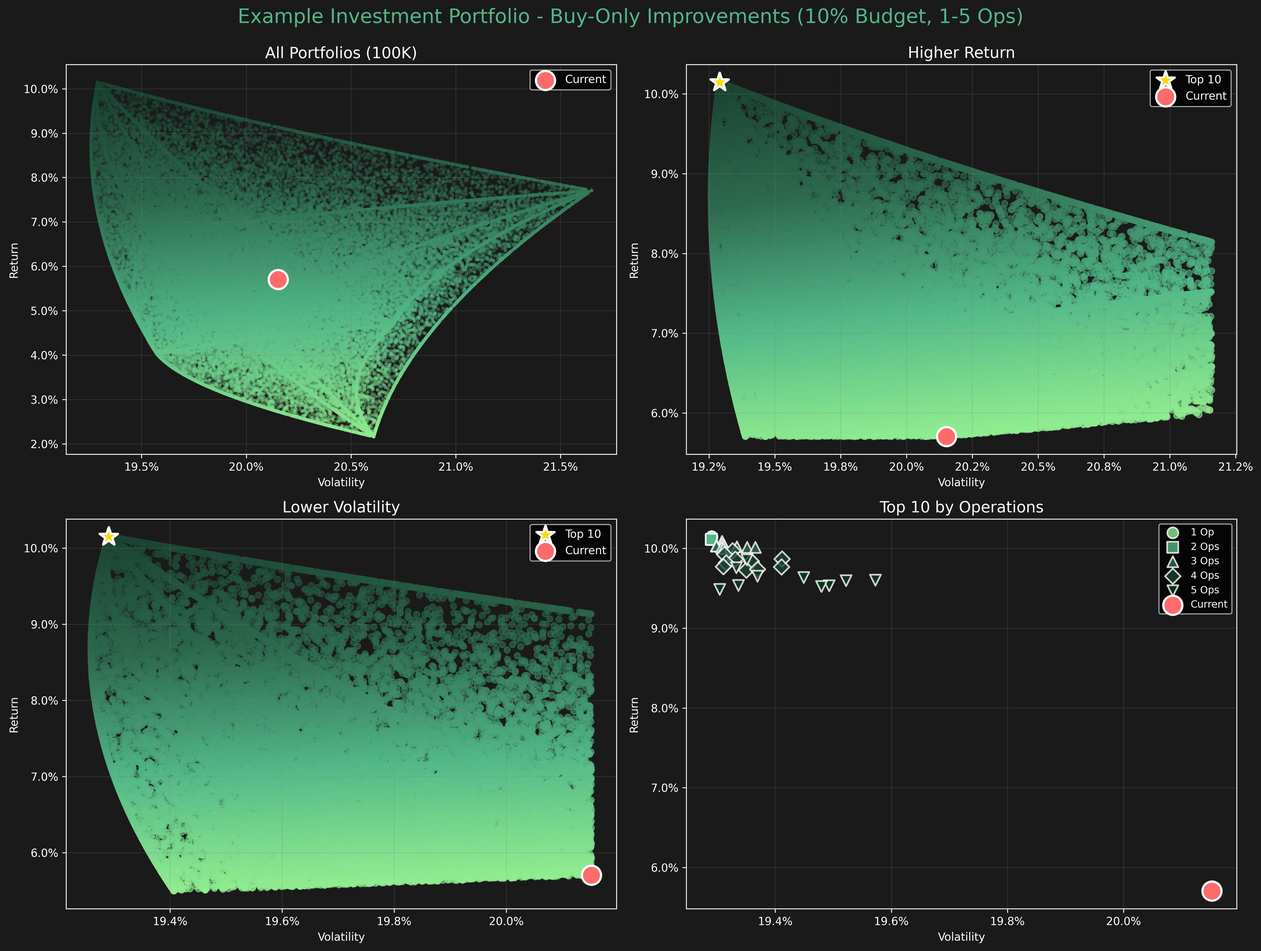
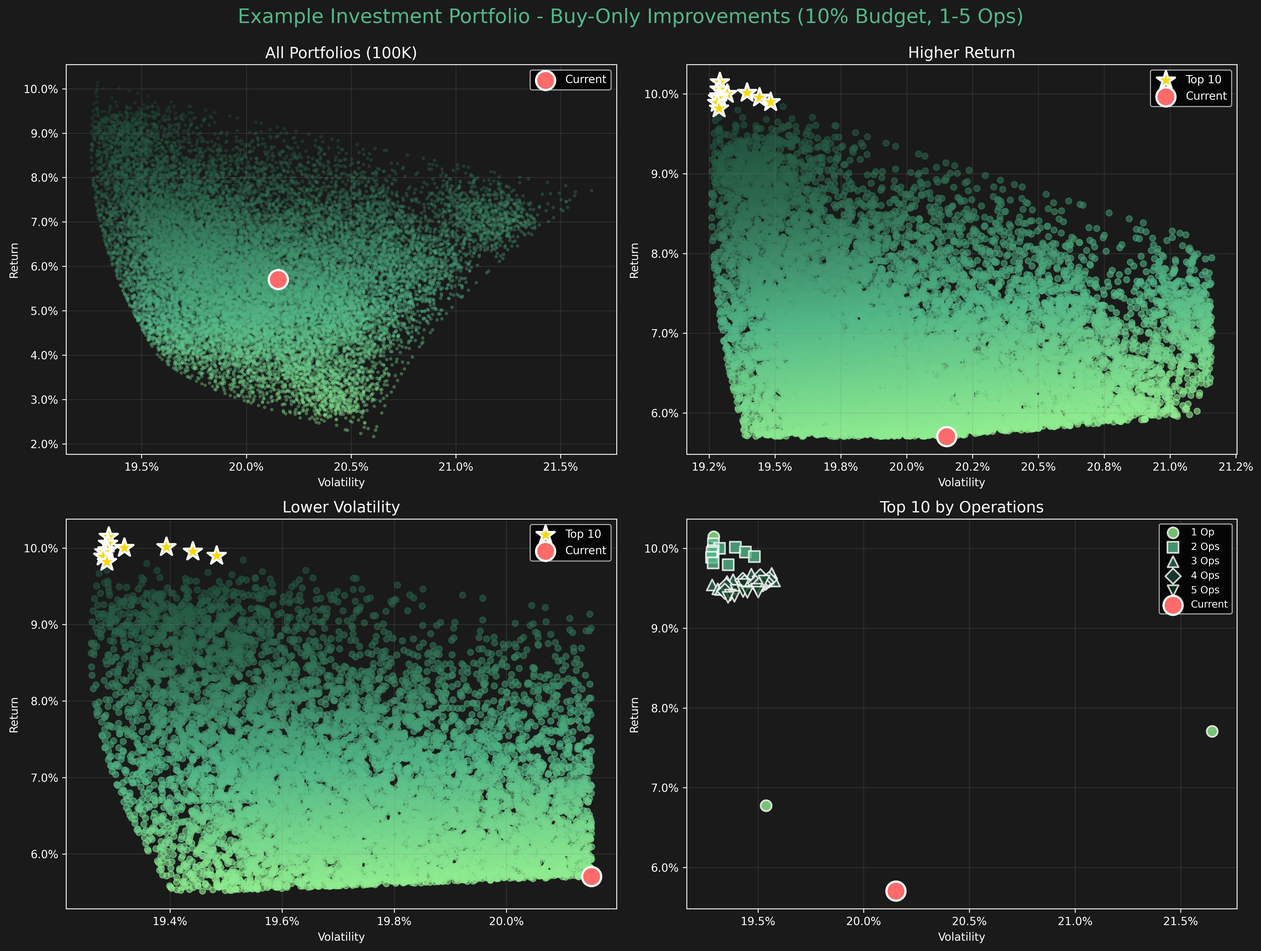
removing duplicate portfolios and adding tolerance thresholds

diff --git a/out/portfolio_report.html b/out/portfolio_report.html
@@ -58,7 +58,7 @@ h1 {font-size:2.5em;font-weight:300;color:#52B788}
 <div class="modal" id="modal" onclick="closeModal()"><span class="close-modal">×</span><img class="modal-content" id="modal-img"></div>
 
         <script>
-            const portfoliosData = {"1_operations": [{"returns": 0.1014749313048474, "volatility": 0.1929073471334451, "sharpe_ratio": 0.5260293753075738, "trades": "Buy JD 10.1%", "num_operations": 1, "return_improvement": 77.88341013234131, "volatility_change": -4.273996866799369, "sharpe_improvement": 85.82559002784281}, {"returns": 0.1014749313048474, "volatility": 0.1929073471334451, "sharpe_ratio": 0.5260293753075738, "trades": "Buy JD 10.1%", "num_operations": 1, "return_improvement": 77.88341013234131, "volatility_change": -4.273996866799369, "sharpe_improvement": 85.82559002784281}, {"returns": 0.1014749313048474, "volatility": 0.1929073471334451, "sharpe_ratio": 0.5260293753075738, "trades": "Buy JD 10.1%", "num_operations": 1, "return_improvement": 77.88341013234131, "volatility_change": -4.273996866799369, "sharpe_improvement": 85.82559002784281}, {"returns": 0.1014749313048474, "volatility": 0.1929073471334451, "sharpe_ratio": 0.5260293753075738, "trades": "Buy JD 10.1%", "num_operations": 1, "return_improvement": 77.88341013234131, "volatility_change": -4.273996866799369, "sharpe_improvement": 85.82559002784281}, {"returns": 0.1014749313048474, "volatility": 0.1929073471334451, "sharpe_ratio": 0.5260293753075738, "trades": "Buy JD 10.1%", "num_operations": 1, "return_improvement": 77.88341013234131, "volatility_change": -4.273996866799369, "sharpe_improvement": 85.82559002784281}, {"returns": 0.1014749313048474, "volatility": 0.1929073471334451, "sharpe_ratio": 0.5260293753075738, "trades": "Buy JD 10.1%", "num_operations": 1, "return_improvement": 77.88341013234131, "volatility_change": -4.273996866799369, "sharpe_improvement": 85.82559002784281}, {"returns": 0.1014749313048474, "volatility": 0.1929073471334451, "sharpe_ratio": 0.5260293753075738, "trades": "Buy JD 10.1%", "num_operations": 1, "return_improvement": 77.88341013234131, "volatility_change": -4.273996866799369, "sharpe_improvement": 85.82559002784281}, {"returns": 0.1014749313048474, "volatility": 0.1929073471334451, "sharpe_ratio": 0.5260293753075738, "trades": "Buy JD 10.1%", "num_operations": 1, "return_improvement": 77.88341013234131, "volatility_change": -4.273996866799369, "sharpe_improvement": 85.82559002784281}, {"returns": 0.1014749313048474, "volatility": 0.1929073471334451, "sharpe_ratio": 0.5260293753075738, "trades": "Buy JD 10.1%", "num_operations": 1, "return_improvement": 77.88341013234131, "volatility_change": -4.273996866799369, "sharpe_improvement": 85.82559002784281}, {"returns": 0.1014749313048474, "volatility": 0.1929073471334451, "sharpe_ratio": 0.5260293753075738, "trades": "Buy JD 10.1%", "num_operations": 1, "return_improvement": 77.88341013234131, "volatility_change": -4.273996866799369, "sharpe_improvement": 85.82559002784281}], "2_operations": [{"returns": 0.1011409190325419, "volatility": 0.1929013183338959, "sharpe_ratio": 0.5243142965849279, "trades": "Buy JD 10.0%; Buy RHHBY 0.1%", "num_operations": 2, "return_improvement": 77.29789367758987, "volatility_change": -4.276988525194507, "sharpe_improvement": 85.21971984161316}, {"returns": 0.1011409087796223, "volatility": 0.1929013181582674, "sharpe_ratio": 0.5243142439111819, "trades": "Buy JD 10.0%; Buy RHHBY 0.1%", "num_operations": 2, "return_improvement": 77.29787570443847, "volatility_change": -4.276988612346298, "sharpe_improvement": 85.21970123404029}, {"returns": 0.1011405496380102, "volatility": 0.1929013120066743, "sharpe_ratio": 0.5243123988421124, "trades": "Buy JD 10.0%; Buy RHHBY 0.1%", "num_operations": 2, "return_improvement": 77.2972461367821, "volatility_change": -4.276991664938274, "sharpe_improvement": 85.21904944335223}, {"returns": 0.1011401531149601, "volatility": 0.1929013052156148, "sharpe_ratio": 0.5243103617257079, "trades": "Buy JD 10.0%; Buy RHHBY 0.1%", "num_operations": 2, "return_improvement": 77.29655104025507, "volatility_change": -4.276995034851288, "sharpe_improvement": 85.21832980985722}, {"returns": 0.1011399840640322, "volatility": 0.1929013023206243, "sharpe_ratio": 0.524309493234659, "trades": "Buy JD 10.0%; Buy RHHBY 0.1%", "num_operations": 2, "return_improvement": 77.29625469755096, "volatility_change": -4.276996471426287, "sharpe_improvement": 85.21802300596154}, {"returns": 0.1011398310434004, "volatility": 0.1929012997002877, "sharpe_ratio": 0.5243087070980974, "trades": "Buy RHHBY 0.1%; Buy JD 10.0%", "num_operations": 2, "return_improvement": 77.29598645561708, "volatility_change": -4.27699777171036, "sharpe_improvement": 85.21774529468293}, {"returns": 0.1011397187655869, "volatility": 0.1929012977777161, "sharpe_ratio": 0.5243081302756821, "trades": "Buy RHHBY 0.1%; Buy JD 10.0%", "num_operations": 2, "return_improvement": 77.2957896349828, "volatility_change": -4.276998725743941, "sharpe_improvement": 85.21754152589986}, {"returns": 0.1011396249323013, "volatility": 0.1929012961710299, "sharpe_ratio": 0.5243076482110779, "trades": "Buy RHHBY 0.1%; Buy JD 10.0%", "num_operations": 2, "return_improvement": 77.295625147216, "volatility_change": -4.27699952302645, "sharpe_improvement": 85.21737123134272}, {"returns": 0.1011393486565629, "volatility": 0.1929012914407041, "sharpe_ratio": 0.5243062288551456, "trades": "Buy RHHBY 0.1%; Buy JD 10.0%", "num_operations": 2, "return_improvement": 77.29514084168515, "volatility_change": -4.277001870345959, "sharpe_improvement": 85.216869828444}, {"returns": 0.1011391983584124, "volatility": 0.1929012888675125, "sharpe_ratio": 0.5243054567036946, "trades": "Buy RHHBY 0.1%; Buy JD 10.0%", "num_operations": 2, "return_improvement": 77.29487737220354, "volatility_change": -4.277003147235377, "sharpe_improvement": 85.2165970575576}], "3_operations": [{"returns": 0.1008992075889424, "volatility": 0.1930848378022942, "sharpe_ratio": 0.5225641160506679, "trades": "Buy NFLX 0.1%; Buy JD 9.9%; Buy RHHBY 0.1%", "num_operations": 3, "return_improvement": 76.87417862498927, "volatility_change": -4.185921049186219, "sharpe_improvement": 84.60144955919034}, {"returns": 0.1005931222200574, "volatility": 0.1930816215863076, "sharpe_ratio": 0.5209875564210145, "trades": "Buy RHHBY 0.2%; Buy JD 9.8%; Buy NFLX 0.1%", "num_operations": 3, "return_improvement": 76.33761744176148, "volatility_change": -4.187517025213994, "sharpe_improvement": 84.04451274701493}, {"returns": 0.1004119733387429, "volatility": 0.1931138604849143, "sharpe_ratio": 0.5199625396468468, "trades": "Buy JD 9.8%; Buy NFLX 0.1%; Buy UNH 0.1%", "num_operations": 3, "return_improvement": 76.02006728099235, "volatility_change": -4.1715191850337865, "sharpe_improvement": 83.68241443884199}, {"returns": 0.1003274556605456, "volatility": 0.1929850770739254, "sharpe_ratio": 0.5198715733969103, "trades": "Buy JD 9.9%; Buy REGN 0.1%; Buy UNH 0.1%", "num_operations": 3, "return_improvement": 75.8719095772041, "volatility_change": -4.235425103533055, "sharpe_improvement": 83.65027962306826}, {"returns": 0.1003221285304544, "volatility": 0.1929854444126867, "sharpe_ratio": 0.5198429800535739, "trades": "Buy UNH 0.1%; Buy REGN 0.1%; Buy JD 9.9%", "num_operations": 3, "return_improvement": 75.86257123073113, "volatility_change": -4.235242819799777, "sharpe_improvement": 83.64017871398262}, {"returns": 0.1001063218044978, "volatility": 0.1930748484642571, "sharpe_ratio": 0.5184845286724645, "trades": "Buy JD 9.6%; Buy RHHBY 0.3%; Buy NFLX 0.1%", "num_operations": 3, "return_improvement": 75.48426660072042, "volatility_change": -4.190878037183028, "sharpe_improvement": 83.16029100947719}, {"returns": 0.1002140980971061, "volatility": 0.1933370609397187, "sharpe_ratio": 0.5183387893144414, "trades": "Buy RHHBY 0.2%; Buy JD 9.6%; Buy NFLX 0.2%", "num_operations": 3, "return_improvement": 75.67319616405258, "volatility_change": -4.060760897423519, "sharpe_improvement": 83.10880699838165}, {"returns": 0.1000313855586777, "volatility": 0.1931073723841848, "sharpe_ratio": 0.5180091486080941, "trades": "Buy JD 9.9%; Buy REGN 0.1%; Buy LULU 0.1%", "num_operations": 3, "return_improvement": 75.35290494540723, "volatility_change": -4.174738761478049, "sharpe_improvement": 82.99235783863962}, {"returns": 0.1001354931524768, "volatility": 0.193517408661848, "sharpe_ratio": 0.5174495351343475, "trades": "Buy JD 9.6%; Buy RHHBY 0.2%; Buy NFLX 0.3%", "num_operations": 3, "return_improvement": 75.53540335725656, "volatility_change": -3.97126733032948, "sharpe_improvement": 82.79466830108161}, {"returns": 0.1001541619866895, "volatility": 0.1936552156170054, "sharpe_ratio": 0.5171777153927306, "trades": "Buy JD 9.6%; Buy RHHBY 0.1%; Buy NFLX 0.4%", "num_operations": 3, "return_improvement": 75.56812942910743, "volatility_change": -3.9028836776734463, "sharpe_improvement": 82.69864502512358}], "4_operations": [{"returns": 0.0997112798818016, "volatility": 0.1932643739763253, "sharpe_ratio": 0.5159320252889243, "trades": "Buy NFLX 0.1%; Buy UNH 0.1%; Buy REGN 0.2%; Buy JD 9.7%", "num_operations": 4, "return_improvement": 74.79176645855875, "volatility_change": -4.096830194881262, "sharpe_improvement": 82.2585914665247}, {"returns": 0.0992447742322387, "volatility": 0.1931258198496722, "sharpe_ratio": 0.5138866170742482, "trades": "Buy LULU 0.1%; Buy JD 9.7%; Buy REGN 0.2%; Buy UNH 0.1%", "num_operations": 4, "return_improvement": 73.97399191342558, "volatility_change": -4.165584614861643, "sharpe_improvement": 81.53602879952963}, {"returns": 0.0986546881961536, "volatility": 0.1933122111247582, "sharpe_ratio": 0.5103386259054513, "trades": "Buy LULU 0.1%; Buy RHHBY 0.1%; Buy REGN 0.3%; Buy JD 9.6%", "num_operations": 4, "return_improvement": 72.93958356231313, "volatility_change": -4.073092068320386, "sharpe_improvement": 80.2826623844511}, {"returns": 0.0982034771744327, "volatility": 0.1931563483574235, "sharpe_ratio": 0.508414442546374, "trades": "Buy NFLX 0.2%; Buy RHHBY 0.6%; Buy JD 9.2%; Buy UNH 0.1%", "num_operations": 4, "return_improvement": 72.1486201765692, "volatility_change": -4.150435518302686, "sharpe_improvement": 79.60292371431842}, {"returns": 0.0986836890606138, "volatility": 0.1941185041853873, "sharpe_ratio": 0.5083682747028012, "trades": "Buy NFLX 0.7%; Buy UNH 0.1%; Buy RHHBY 0.1%; Buy JD 9.2%", "num_operations": 4, "return_improvement": 72.99042146484365, "volatility_change": -3.672986975409337, "sharpe_improvement": 79.58661442214779}, {"returns": 0.0984037196430092, "volatility": 0.1935893072905851, "sharpe_ratio": 0.5083117503762822, "trades": "Buy LULU 0.1%; Buy UNH 0.2%; Buy JD 9.4%; Buy NFLX 0.4%", "num_operations": 4, "return_improvement": 72.49964099230851, "volatility_change": -3.935589226503854, "sharpe_improvement": 79.56664658989472}, {"returns": 0.0977250268663288, "volatility": 0.1931038507581967, "sharpe_ratio": 0.5060749771826117, "trades": "Buy REGN 0.1%; Buy RHHBY 0.7%; Buy JD 9.2%; Buy LULU 0.1%", "num_operations": 4, "return_improvement": 71.3099068974372, "volatility_change": -4.1764862904622255, "sharpe_improvement": 78.77648216565655}, {"returns": 0.0976845506913736, "volatility": 0.1941087974157256, "sharpe_ratio": 0.5032463854905106, "trades": "Buy LULU 0.1%; Buy NFLX 0.4%; Buy REGN 0.4%; Buy JD 9.2%", "num_operations": 4, "return_improvement": 71.23895301811395, "volatility_change": -3.677803745101372, "sharpe_improvement": 77.7772514291122}, {"returns": 0.0973085898660237, "volatility": 0.1935032243734931, "sharpe_ratio": 0.5028783896551621, "trades": "Buy JD 9.2%; Buy UNH 0.5%; Buy NFLX 0.3%; Buy REGN 0.1%", "num_operations": 4, "return_improvement": 70.57990163636417, "volatility_change": -3.9783059696124696, "sharpe_improvement": 77.64725290347579}, {"returns": 0.0973895954624856, "volatility": 0.1936954658115883, "sharpe_ratio": 0.502797497372595, "trades": "Buy REGN 0.6%; Buy JD 9.3%; Buy UNH 0.1%; Buy NFLX 0.1%", "num_operations": 4, "return_improvement": 70.72190273509038, "volatility_change": -3.882910409106924, "sharpe_improvement": 77.61867682608862}], "5_operations": [{"returns": 0.0985800136890445, "volatility": 0.1935126107375805, "sharpe_ratio": 0.5094242350061998, "trades": "Buy UNH 0.1%; Buy JD 9.5%; Buy REGN 0.2%; Buy NFLX 0.2%; Buy LULU 0.1%", "num_operations": 5, "return_improvement": 72.80868072942901, "volatility_change": -3.9736481940979846, "sharpe_improvement": 79.95964386809895}, {"returns": 0.0975829815681982, "volatility": 0.1933284122523339, "sharpe_ratio": 0.5047524077362827, "trades": "Buy JD 9.2%; Buy LULU 0.1%; Buy RHHBY 0.4%; Buy NFLX 0.2%; Buy UNH 0.2%", "num_operations": 5, "return_improvement": 71.06090449162295, "volatility_change": -4.065052617194677, "sharpe_improvement": 78.30927014432564}, {"returns": 0.0965388111903672, "volatility": 0.1936951783546163, "sharpe_ratio": 0.4984058561004776, "trades": "Buy JD 9.3%; Buy RHHBY 0.1%; Buy REGN 0.1%; Buy NFLX 0.2%; Buy LULU 0.5%", "num_operations": 5, "return_improvement": 69.230495885484, "volatility_change": -3.883053053269583, "sharpe_improvement": 76.0672818491357}, {"returns": 0.0963607757666933, "volatility": 0.1944888481538721, "sharpe_ratio": 0.4954565605245211, "trades": "Buy JD 8.9%; Buy REGN 0.5%; Buy RHHBY 0.1%; Buy NFLX 0.5%; Buy LULU 0.1%", "num_operations": 5, "return_improvement": 68.91840355016302, "volatility_change": -3.489211974537956, "sharpe_improvement": 75.02541115465563}, {"returns": 0.0953770498053907, "volatility": 0.1933658910581593, "sharpe_ratio": 0.4932465042487963, "trades": "Buy LULU 0.2%; Buy JD 8.6%; Buy UNH 0.1%; Buy NFLX 0.2%; Buy RHHBY 1.0%", "num_operations": 5, "return_improvement": 67.19395272884108, "volatility_change": -4.046454588984829, "sharpe_improvement": 74.24468477185397}, {"returns": 0.0959782185899611, "volatility": 0.1952189154548665, "sharpe_ratio": 0.491644051839591, "trades": "Buy LULU 0.1%; Buy NFLX 1.1%; Buy JD 8.4%; Buy RHHBY 0.3%; Buy REGN 0.2%", "num_operations": 5, "return_improvement": 68.24778890383924, "volatility_change": -3.126932228427057, "sharpe_improvement": 73.6786010540806}, {"returns": 0.0948816916126562, "volatility": 0.1930408698364268, "sharpe_ratio": 0.4915108997025043, "trades": "Buy REGN 0.1%; Buy RHHBY 1.1%; Buy JD 8.5%; Buy LULU 0.1%; Buy UNH 0.2%", "num_operations": 5, "return_improvement": 66.32560028526176, "volatility_change": -4.207739179500721, "sharpe_improvement": 73.63156361549053}, {"returns": 0.0960431108853767, "volatility": 0.1957258041748315, "sharpe_ratio": 0.4907023439770185, "trades": "Buy UNH 0.1%; Buy JD 8.2%; Buy REGN 0.1%; Buy RHHBY 0.2%; Buy NFLX 1.4%", "num_operations": 5, "return_improvement": 68.36154372634972, "volatility_change": -2.875399915549469, "sharpe_improvement": 73.34593252374603}, {"returns": 0.0953284045901598, "volatility": 0.1949263655380996, "sharpe_ratio": 0.4890482840892413, "trades": "Buy REGN 0.2%; Buy LULU 0.1%; Buy NFLX 0.9%; Buy UNH 0.3%; Buy JD 8.5%", "num_operations": 5, "return_improvement": 67.10867869454889, "volatility_change": -3.272103652248823, "sharpe_improvement": 72.76161790365873}, {"returns": 0.0952260297578302, "volatility": 0.1947968154834463, "sharpe_ratio": 0.4888479799913486, "trades": "Buy RHHBY 0.5%; Buy REGN 0.3%; Buy NFLX 0.8%; Buy JD 8.3%; Buy LULU 0.1%", "num_operations": 5, "return_improvement": 66.92921777693748, "volatility_change": -3.336390000705361, "sharpe_improvement": 72.6908583055771}]};
+            const portfoliosData = {"1_operations": [{"returns": 0.1014749285931443, "volatility": 0.1929073491983816, "sharpe_ratio": 0.5260293556197788, "trades": "Buy JD 10.1%", "num_operations": 1, "return_improvement": 77.88340537878304, "volatility_change": -4.273995842120343, "sharpe_improvement": 85.82558307291542, "signature": "JD:10.0"}, {"returns": 0.0770666416787214, "volatility": 0.2164825662362964, "sharpe_ratio": 0.3559946790107855, "trades": "Buy NFLX 10.1%", "num_operations": 1, "return_improvement": 35.096194232193874, "volatility_change": 7.424684034889174, "sharpe_improvement": 25.75898681565372, "signature": "NFLX:10.0"}, {"returns": 0.0677492312386889, "volatility": 0.1953854014935572, "sharpe_ratio": 0.3467466388010722, "trades": "Buy RHHBY 10.1%", "num_operations": 1, "return_improvement": 18.7629706333868, "volatility_change": -3.0443172150635727, "sharpe_improvement": 22.492016168688693, "signature": "RHHBY:10.0"}], "2_operations": [{"returns": 0.1005829301372293, "volatility": 0.1928926199580427, "sharpe_ratio": 0.521445196602689, "trades": "Buy RHHBY 0.3%; Buy JD 9.8%", "num_operations": 2, "return_improvement": 76.31975093595065, "volatility_change": -4.281304901768826, "sharpe_improvement": 84.20617911161744, "signature": "JD:10.0|RHHBY:0.5"}, {"returns": 0.1000297740118866, "volatility": 0.1931836037264368, "sharpe_ratio": 0.5177963972218712, "trades": "Buy JD 9.8%; Buy REGN 0.3%", "num_operations": 2, "return_improvement": 75.35007993793884, "volatility_change": -4.136910644427554, "sharpe_improvement": 82.91720110076544, "signature": "JD:10.0|REGN:0.5"}, {"returns": 0.0997259499209221, "volatility": 0.1928825979524185, "sharpe_ratio": 0.5170292757334344, "trades": "Buy RHHBY 0.5%; Buy JD 9.6%", "num_operations": 2, "return_improvement": 74.81748272711874, "volatility_change": -4.286278100333, "sharpe_improvement": 82.64620710327534, "signature": "JD:9.5|RHHBY:0.5"}, {"returns": 0.1001355396434229, "volatility": 0.1939360619522001, "sharpe_ratio": 0.5163327471716094, "trades": "Buy JD 9.5%; Buy NFLX 0.6%", "num_operations": 2, "return_improvement": 75.53548485490252, "volatility_change": -3.763519897276859, "sharpe_improvement": 82.40015082382006, "signature": "JD:9.5|NFLX:0.5"}, {"returns": 0.0994873095399822, "volatility": 0.1928279348536531, "sharpe_ratio": 0.5159382618264736, "trades": "Buy UNH 0.3%; Buy JD 9.8%", "num_operations": 2, "return_improvement": 74.39915118246027, "volatility_change": -4.313403453729051, "sharpe_improvement": 82.26079459114897, "signature": "JD:10.0|UNH:0.5"}, {"returns": 0.0988867395140985, "volatility": 0.1928062061117535, "sharpe_ratio": 0.5128815171892455, "trades": "Buy UNH 0.4%; Buy JD 9.7%", "num_operations": 2, "return_improvement": 73.34636461878642, "volatility_change": -4.324185861170068, "sharpe_improvement": 81.18096634877136, "signature": "JD:9.5|UNH:0.5"}, {"returns": 0.0995402377369891, "volatility": 0.1944041571077225, "sharpe_ratio": 0.5120273106188376, "trades": "Buy JD 9.3%; Buy NFLX 0.8%", "num_operations": 2, "return_improvement": 74.49193319329464, "volatility_change": -3.5312380324851462, "sharpe_improvement": 80.87920860024468, "signature": "JD:9.5|NFLX:1.0"}, {"returns": 0.0982016828587427, "volatility": 0.1928747731045171, "sharpe_ratio": 0.5091473668540787, "trades": "Buy JD 9.1%; Buy RHHBY 1.0%", "num_operations": 2, "return_improvement": 72.14547477908351, "volatility_change": -4.290161007987167, "sharpe_improvement": 79.8618371862996, "signature": "JD:9.0|RHHBY:1.0"}, {"returns": 0.0990035018435104, "volatility": 0.1948318815471499, "sharpe_ratio": 0.508148363898807, "trades": "Buy NFLX 1.0%; Buy JD 9.1%", "num_operations": 2, "return_improvement": 73.55104651473553, "volatility_change": -3.318989242393975, "sharpe_improvement": 79.5089285421875, "signature": "JD:9.0|NFLX:1.0"}, {"returns": 0.0979686961602559, "volatility": 0.1935871828905473, "sharpe_ratio": 0.5060701576283935, "trades": "Buy JD 9.4%; Buy REGN 0.6%", "num_operations": 2, "return_improvement": 71.73705402028739, "volatility_change": -3.936643413022377, "sharpe_improvement": 78.7747796057838, "signature": "JD:9.5|REGN:0.5"}], "3_operations": [{"returns": 0.0968097264139556, "volatility": 0.1946774717711132, "sharpe_ratio": 0.4972826364201866, "trades": "Buy RHHBY 0.7%; Buy NFLX 0.9%; Buy JD 8.4%", "num_operations": 3, "return_improvement": 69.70540454724892, "volatility_change": -3.395611677590605, "sharpe_improvement": 75.67049229779379, "signature": "JD:8.5|NFLX:1.0|RHHBY:0.5"}, {"returns": 0.0961207857467259, "volatility": 0.1938207731915348, "sharpe_ratio": 0.4959261288868082, "trades": "Buy RHHBY 1.2%; Buy JD 8.3%; Buy NFLX 0.5%", "num_operations": 3, "return_improvement": 68.49770611681087, "volatility_change": -3.820729394108684, "sharpe_improvement": 75.19129127861142, "signature": "JD:8.5|NFLX:0.5|RHHBY:1.0"}, {"returns": 0.0958682355356162, "volatility": 0.1935317634804746, "sharpe_ratio": 0.495361762904043, "trades": "Buy RHHBY 1.4%; Buy JD 8.3%; Buy NFLX 0.3%", "num_operations": 3, "return_improvement": 68.05499093381773, "volatility_change": -3.9641440691720335, "sharpe_improvement": 74.99192286562561, "signature": "JD:8.5|NFLX:0.5|RHHBY:1.5"}, {"returns": 0.096906624029962, "volatility": 0.1956484555660375, "sharpe_ratio": 0.4953099361280315, "trades": "Buy RHHBY 0.3%; Buy JD 8.3%; Buy NFLX 1.4%", "num_operations": 3, "return_improvement": 69.87526402039441, "volatility_change": -2.913782451403004, "sharpe_improvement": 74.9736144941094, "signature": "JD:8.5|NFLX:1.5|RHHBY:0.5"}, {"returns": 0.0954502542514946, "volatility": 0.1928316295980542, "sharpe_ratio": 0.4949927273365625, "trades": "Buy RHHBY 1.3%; Buy JD 8.5%; Buy UNH 0.3%", "num_operations": 3, "return_improvement": 67.32227857584957, "volatility_change": -4.311570018562511, "sharpe_improvement": 74.86155704332106, "signature": "JD:8.5|RHHBY:1.5|UNH:0.5"}, {"returns": 0.0956619278714613, "volatility": 0.1944701520068258, "sharpe_ratio": 0.491910593395863, "trades": "Buy NFLX 0.8%; Buy RHHBY 1.1%; Buy JD 8.1%", "num_operations": 3, "return_improvement": 67.69333795840403, "volatility_change": -3.4984895238761777, "sharpe_improvement": 73.7727597537392, "signature": "JD:8.0|NFLX:1.0|RHHBY:1.0"}, {"returns": 0.0949342632133214, "volatility": 0.1930944467731852, "sharpe_ratio": 0.4916467811466072, "trades": "Buy JD 8.2%; Buy RHHBY 1.7%; Buy REGN 0.2%", "num_operations": 3, "return_improvement": 66.417757190245, "volatility_change": -4.1811528099704125, "sharpe_improvement": 73.67956521142705, "signature": "JD:8.0|RHHBY:1.5"}, {"returns": 0.096016417809061, "volatility": 0.1955218034345314, "sharpe_ratio": 0.4910778037151811, "trades": "Buy NFLX 1.4%; Buy RHHBY 0.6%; Buy JD 8.1%", "num_operations": 3, "return_improvement": 68.31475132766658, "volatility_change": -2.976630769611404, "sharpe_improvement": 73.47856775411688, "signature": "JD:8.0|NFLX:1.5|RHHBY:0.5"}, {"returns": 0.0948658388844716, "volatility": 0.193224733766392, "sharpe_ratio": 0.4909611571734087, "trades": "Buy JD 8.3%; Buy RHHBY 1.5%; Buy REGN 0.3%", "num_operations": 3, "return_improvement": 66.29781078776608, "volatility_change": -4.116500772060735, "sharpe_improvement": 73.4373610963387, "signature": "JD:8.5|REGN:0.5|RHHBY:1.5"}, {"returns": 0.0959360263091809, "volatility": 0.1957872247480411, "sharpe_ratio": 0.4900014617023208, "trades": "Buy NFLX 1.3%; Buy JD 8.4%; Buy REGN 0.5%", "num_operations": 3, "return_improvement": 68.17382672727084, "volatility_change": -2.8449213149628205, "sharpe_improvement": 73.09833824793279, "signature": "JD:8.5|NFLX:1.5|REGN:0.5"}], "4_operations": [{"returns": 0.0964855166017631, "volatility": 0.1951066644882893, "sharpe_ratio": 0.4945270160546176, "trades": "Buy JD 8.5%; Buy REGN 0.3%; Buy NFLX 1.0%; Buy RHHBY 0.3%", "num_operations": 4, "return_improvement": 69.13707159792261, "volatility_change": -3.1826342871508206, "sharpe_improvement": 74.69703947488786, "signature": "JD:8.5|NFLX:1.0|REGN:0.5|RHHBY:0.5"}, {"returns": 0.0960190034446906, "volatility": 0.194274282830908, "sharpe_ratio": 0.49424453944974, "trades": "Buy JD 8.5%; Buy NFLX 0.5%; Buy RHHBY 0.7%; Buy REGN 0.4%", "num_operations": 4, "return_improvement": 68.31928389228369, "volatility_change": -3.595685269016132, "sharpe_improvement": 74.59725154623894, "signature": "JD:8.5|NFLX:0.5|REGN:0.5|RHHBY:0.5"}, {"returns": 0.0952951842718856, "volatility": 0.1934907842281167, "sharpe_ratio": 0.4925050288676127, "trades": "Buy NFLX 0.4%; Buy RHHBY 1.0%; Buy JD 8.4%; Buy UNH 0.3%", "num_operations": 4, "return_improvement": 67.05044417865118, "volatility_change": -3.984479116529719, "sharpe_improvement": 73.98275054029322, "signature": "JD:8.5|NFLX:0.5|RHHBY:1.0|UNH:0.5"}, {"returns": 0.0957114195604578, "volatility": 0.1943592248487386, "sharpe_ratio": 0.4924459831270982, "trades": "Buy UNH 0.1%; Buy RHHBY 0.9%; Buy NFLX 0.8%; Buy JD 8.3%", "num_operations": 4, "return_improvement": 67.78009584331896, "volatility_change": -3.553534671924732, "sharpe_improvement": 73.96189199116121, "signature": "JD:8.5|NFLX:1.0|RHHBY:1.0"}, {"returns": 0.0961048487996906, "volatility": 0.1955208263875797, "sharpe_ratio": 0.4915325419563365, "trades": "Buy JD 8.4%; Buy NFLX 1.3%; Buy REGN 0.1%; Buy UNH 0.2%", "num_operations": 4, "return_improvement": 68.46976898544966, "volatility_change": -2.977115607544976, "sharpe_improvement": 73.63920897671309, "signature": "JD:8.5|NFLX:1.5"}, {"returns": 0.0956242195574394, "volatility": 0.1948777974531088, "sharpe_ratio": 0.4906881174108529, "trades": "Buy REGN 0.1%; Buy NFLX 1.0%; Buy UNH 0.5%; Buy JD 8.5%", "num_operations": 4, "return_improvement": 67.62723608080424, "volatility_change": -3.296204489905313, "sharpe_improvement": 73.34090683473339, "signature": "JD:8.5|NFLX:1.0|UNH:0.5"}, {"returns": 0.0958148596733306, "volatility": 0.1953640346023257, "sharpe_ratio": 0.4904426747142437, "trades": "Buy UNH 0.3%; Buy RHHBY 0.1%; Buy NFLX 1.3%; Buy JD 8.3%", "num_operations": 4, "return_improvement": 67.96142417521033, "volatility_change": -3.054920062116158, "sharpe_improvement": 73.2542015364052, "signature": "JD:8.5|NFLX:1.5|UNH:0.5"}, {"returns": 0.0955939296078247, "volatility": 0.1952325103463343, "sharpe_ratio": 0.4896414507924171, "trades": "Buy NFLX 1.1%; Buy JD 8.1%; Buy REGN 0.1%; Buy RHHBY 0.7%", "num_operations": 4, "return_improvement": 67.57413843923979, "volatility_change": -3.1201860643094883, "sharpe_improvement": 72.97116048393396, "signature": "JD:8.0|NFLX:1.0|RHHBY:0.5"}, {"returns": 0.0946317618042315, "volatility": 0.1934359377582086, "sharpe_ratio": 0.4892149974867623, "trades": "Buy JD 8.1%; Buy RHHBY 1.4%; Buy UNH 0.2%; Buy NFLX 0.3%", "num_operations": 4, "return_improvement": 65.88747861279923, "volatility_change": -4.0116954637984525, "sharpe_improvement": 72.8205112220058, "signature": "JD:8.0|NFLX:0.5|RHHBY:1.5"}, {"returns": 0.095396602588925, "volatility": 0.1950531003271935, "sharpe_ratio": 0.4890801654980166, "trades": "Buy NFLX 0.9%; Buy RHHBY 0.5%; Buy REGN 0.4%; Buy JD 8.2%", "num_operations": 4, "return_improvement": 67.22822834517258, "volatility_change": -3.2092143170412064, "sharpe_improvement": 72.77288035757233, "signature": "JD:8.0|NFLX:1.0|REGN:0.5|RHHBY:0.5"}], "5_operations": [{"returns": 0.0955189185663085, "volatility": 0.1942894591699434, "sharpe_ratio": 0.4916320163450501, "trades": "Buy UNH 0.0%; Buy REGN 0.3%; Buy JD 8.3%; Buy NFLX 0.6%; Buy RHHBY 0.8%", "num_operations": 5, "return_improvement": 67.44264566865205, "volatility_change": -3.588154346531101, "sharpe_improvement": 73.67434938491661, "signature": "JD:8.5|NFLX:0.5|REGN:0.5|RHHBY:1.0"}, {"returns": 0.0959287398426201, "volatility": 0.1952800223352885, "sharpe_ratio": 0.4912368336271188, "trades": "Buy NFLX 1.2%; Buy JD 8.5%; Buy REGN 0.0%; Buy UNH 0.2%; Buy LULU 0.2%", "num_operations": 5, "return_improvement": 68.16105370537288, "volatility_change": -3.0966092909461467, "sharpe_improvement": 73.53474679773136, "signature": "JD:8.5|NFLX:1.0"}, {"returns": 0.094772454142614, "volatility": 0.1939521500713358, "sharpe_ratio": 0.4886383270706544, "trades": "Buy RHHBY 0.3%; Buy NFLX 0.4%; Buy UNH 0.5%; Buy REGN 0.3%; Buy JD 8.6%", "num_operations": 5, "return_improvement": 66.13410930876672, "volatility_change": -3.755536524089298, "sharpe_improvement": 72.61679613430333, "signature": "JD:8.5|NFLX:0.5|REGN:0.5|RHHBY:0.5|UNH:0.5"}, {"returns": 0.0946226747665919, "volatility": 0.1942970525801876, "sharpe_ratio": 0.4870000522912746, "trades": "Buy LULU 0.2%; Buy NFLX 0.7%; Buy JD 8.2%; Buy UNH 0.2%; Buy RHHBY 0.8%", "num_operations": 5, "return_improvement": 65.8715492278511, "volatility_change": -3.5843862846940104, "sharpe_improvement": 72.03805777519938, "signature": "JD:8.0|NFLX:0.5|RHHBY:1.0"}, {"returns": 0.0949190810856605, "volatility": 0.1949310183264896, "sharpe_ratio": 0.4869367733291205, "trades": "Buy RHHBY 0.2%; Buy NFLX 0.9%; Buy REGN 0.4%; Buy UNH 0.3%; Buy JD 8.3%", "num_operations": 5, "return_improvement": 66.39114324129572, "volatility_change": -3.26979480894856, "sharpe_improvement": 72.0157037945462, "signature": "JD:8.5|NFLX:1.0|REGN:0.5|UNH:0.5"}, {"returns": 0.0941972406517889, "volatility": 0.1936927564687045, "sharpe_ratio": 0.4863229909529873, "trades": "Buy JD 8.4%; Buy REGN 0.7%; Buy RHHBY 0.9%; Buy NFLX 0.0%; Buy UNH 0.1%", "num_operations": 5, "return_improvement": 65.12577221519729, "volatility_change": -3.88425486057151, "sharpe_improvement": 71.79887850389213, "signature": "JD:8.5|REGN:0.5|RHHBY:1.0"}, {"returns": 0.0945219490785053, "volatility": 0.1944884895011271, "sharpe_ratio": 0.4860027928694336, "trades": "Buy NFLX 0.5%; Buy LULU 0.3%; Buy JD 8.5%; Buy RHHBY 0.4%; Buy REGN 0.4%", "num_operations": 5, "return_improvement": 65.69497922524675, "volatility_change": -3.4893899480278585, "sharpe_improvement": 71.6857650532082, "signature": "JD:8.5|LULU:0.5|NFLX:0.5|REGN:0.5|RHHBY:0.5"}, {"returns": 0.0940209944565841, "volatility": 0.1938742880048125, "sharpe_ratio": 0.4849585544538546, "trades": "Buy LULU 0.1%; Buy RHHBY 1.4%; Buy JD 8.0%; Buy NFLX 0.3%; Buy REGN 0.3%", "num_operations": 5, "return_improvement": 64.81681635957128, "volatility_change": -3.794173851981264, "sharpe_improvement": 71.31687649144062, "signature": "JD:8.0|NFLX:0.5|REGN:0.5|RHHBY:1.5"}, {"returns": 0.0938681906852647, "volatility": 0.1935842678372495, "sharpe_ratio": 0.4848957600427617, "trades": "Buy UNH 0.2%; Buy NFLX 0.3%; Buy LULU 0.3%; Buy JD 8.3%; Buy RHHBY 1.1%", "num_operations": 5, "return_improvement": 64.54895457761319, "volatility_change": -3.93808994372875, "sharpe_improvement": 71.29469368371251, "signature": "JD:8.5|LULU:0.5|NFLX:0.5|RHHBY:1.0"}, {"returns": 0.094556445627276, "volatility": 0.1950039048696783, "sharpe_ratio": 0.4848951393587135, "trades": "Buy JD 8.2%; Buy UNH 0.4%; Buy LULU 0.1%; Buy RHHBY 0.3%; Buy NFLX 1.1%", "num_operations": 5, "return_improvement": 65.75545094623462, "volatility_change": -3.233626474432902, "sharpe_improvement": 71.29447442033121, "signature": "JD:8.0|NFLX:1.0|RHHBY:0.5|UNH:0.5"}]};
             const currentPortfolio = {return: 0.057045753299508, volatility: 0.2015203192647862, sharpe: 0.2830769299474616};
         </script>
         

diff --git a/reachable_portfolios.py b/reachable_portfolios.py
@@ -9,10 +9,13 @@ from datetime import datetime
 
 
 def generate_buy_only_portfolios(current_weights, tickers, num_portfolios=100000):
+    """Generate diverse portfolios via Monte Carlo"""
     portfolios = []
     budget = 0.10
 
-    for _ in range(num_portfolios):
+    np.random.seed(42)
+
+    for i in range(num_portfolios):
         num_buys = np.random.choice([1, 2, 3, 4, 5])
         num_buys = min(num_buys, len(tickers))
         buy_indices = np.random.choice(len(tickers), size=num_buys, replace=False)
@@ -20,10 +23,26 @@ def generate_buy_only_portfolios(current_weights, tickers, num_portfolios=100000
         if num_buys == 1:
             buy_amounts = [budget]
         else:
-            splits = np.random.dirichlet(np.ones(num_buys))
-            splits = np.maximum(splits, 0.01)
-            splits = splits / splits.sum()
-            buy_amounts = splits * budget
+            # Varied allocation strategies
+            if i % 4 == 0:
+                buy_amounts = [budget / num_buys] * num_buys
+            elif i % 4 == 1:
+                main_pct = np.random.uniform(0.70, 0.85)
+                main_amount = budget * main_pct
+                remaining = budget - main_amount
+                other_amounts = np.random.dirichlet(np.ones(num_buys - 1)) * remaining
+                buy_amounts = np.append([main_amount], other_amounts)
+                np.random.shuffle(buy_amounts)
+            elif i % 4 == 2:
+                main_pct = np.random.uniform(0.40, 0.60)
+                main_amount = budget * main_pct
+                remaining = budget - main_amount
+                other_amounts = np.random.dirichlet(np.ones(num_buys - 1)) * remaining
+                buy_amounts = np.append([main_amount], other_amounts)
+                np.random.shuffle(buy_amounts)
+            else:
+                splits = np.random.dirichlet(np.ones(num_buys) * 2)
+                buy_amounts = splits * budget
 
         new_weights = current_weights.copy()
         total_before = np.sum(new_weights)
@@ -33,16 +52,31 @@ def generate_buy_only_portfolios(current_weights, tickers, num_portfolios=100000
 
         new_weights = new_weights / np.sum(new_weights)
 
+        # Create trade instructions
         trades = []
+        buy_stocks = []
         for idx, amount in zip(buy_indices, buy_amounts):
             pct = (amount / total_before) * 100
             trades.append(f"Buy {tickers[idx]} {pct:.1f}%")
+            buy_stocks.append(tickers[idx])
+
+        # Create unique signature: sorted list of (stock, rounded_amount) to detect duplicates
+        signature_parts = []
+        for idx, amount in zip(buy_indices, buy_amounts):
+            pct = (amount / total_before) * 100
+            # Round to 0.5% precision to catch near-duplicates
+            rounded_pct = round(pct * 2) / 2  # Round to nearest 0.5%
+            if rounded_pct > 0:  # Only include non-zero amounts
+                signature_parts.append(f"{tickers[idx]}:{rounded_pct:.1f}")
+
+        signature = '|'.join(sorted(signature_parts))
 
         portfolios.append({
             'weights': new_weights,
             'trades': '; '.join(trades),
             'num_operations': num_buys,
-            'buy_tickers': ','.join([tickers[i] for i in buy_indices])
+            'buy_tickers': ','.join(buy_stocks),
+            'signature': signature  # For deduplication
         })
 
     return portfolios
@@ -81,7 +115,14 @@ def main():
 
     print("Calculating metrics...")
     results = []
+    seen_signatures = set()
+
     for p in generated:
+        # Skip if we've seen this exact portfolio before
+        if p['signature'] in seen_signatures:
+            continue
+        seen_signatures.add(p['signature'])
+
         ret = np.sum(p['weights'] * mean_returns.values)
         vol = np.sqrt(np.dot(p['weights'].T, np.dot(cov_matrix.values, p['weights'])))
         sharpe = ret / vol if vol > 0 else 0
@@ -90,20 +131,22 @@ def main():
             'trades': p['trades'], 'num_operations': p['num_operations'],
             'return_improvement': ((ret - current_return) / current_return * 100),
             'volatility_change': ((vol - current_std) / current_std * 100),
-            'sharpe_improvement': ((sharpe - current_sharpe) / current_sharpe * 100)
+            'sharpe_improvement': ((sharpe - current_sharpe) / current_sharpe * 100),
+            'signature': p['signature']
         })
 
     results_df = pd.DataFrame(results)
     better = results_df[results_df['sharpe_ratio'] > current_sharpe].copy()
 
-    print(f"Found {len(better):,} better portfolios")
+    print(f"Generated {len(results_df):,} unique portfolios, {len(better):,} better than current")
 
     # Get top 10 for each operation count
     top_by_ops = []
     for ops in range(1, 6):
-        ops_data = better[better['num_operations'] == ops]
+        ops_data = better[better['num_operations'] == ops].copy()
         if len(ops_data) > 0:
-            top_10 = ops_data.nlargest(10, 'sharpe_ratio')
+            # Simply take top 10 by Sharpe - duplicates already removed
+            top_10 = ops_data.nlargest(min(10, len(ops_data)), 'sharpe_ratio')
             top_by_ops.append(top_10)
 
     all_recommendations = pd.concat(top_by_ops, ignore_index=True) if top_by_ops else pd.DataFrame()
